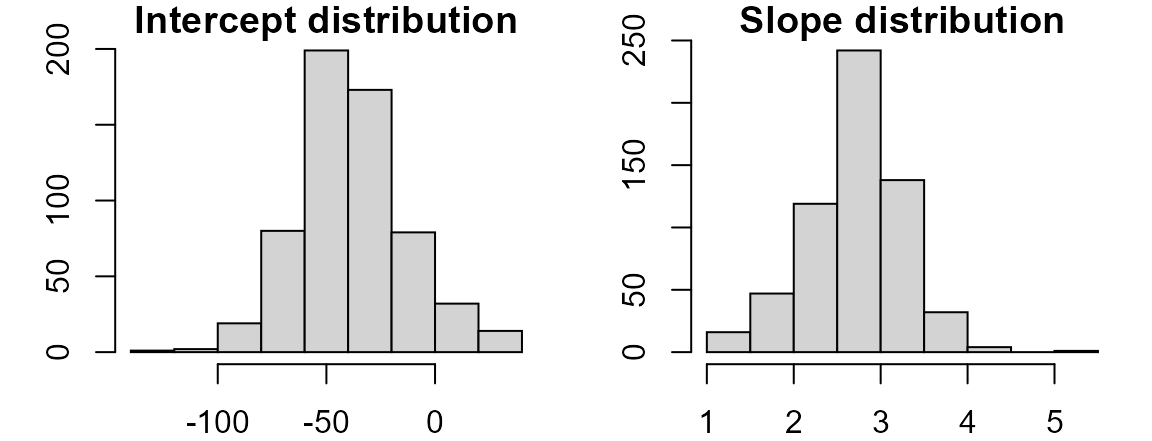
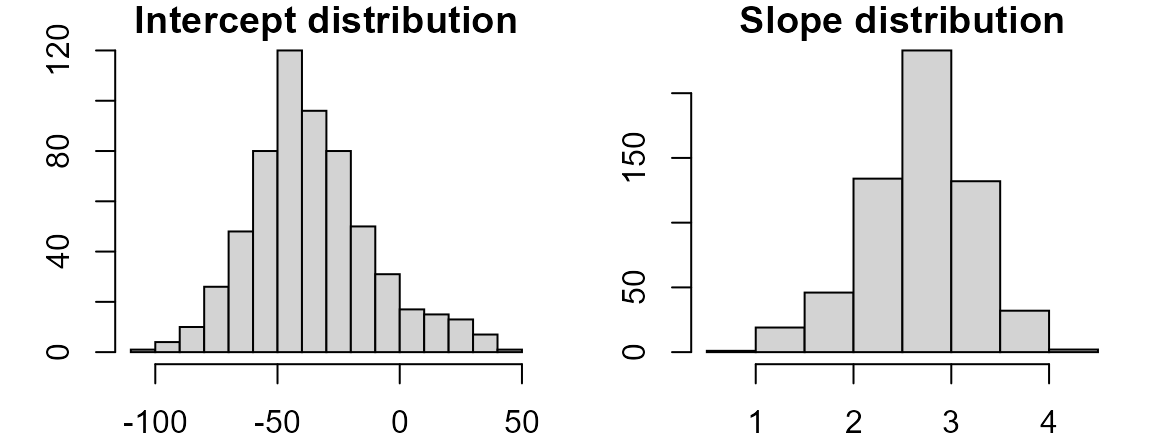
Edited Description

diff --git a/docs/index.html b/docs/index.html
@@ -5,14 +5,14 @@
 <meta charset="utf-8">
 <meta http-equiv="X-UA-Compatible" content="IE=edge">
 <meta name="viewport" content="width=device-width, initial-scale=1.0">
-<title>Tukey inspired exploratory data analysis functions • tukeyedar</title>
+<title>Tukey Inspired Exploratory Data Analysis Functions • tukeyedar</title>
 <!-- jquery --><script src="https://cdnjs.cloudflare.com/ajax/libs/jquery/3.4.1/jquery.min.js" integrity="sha256-CSXorXvZcTkaix6Yvo6HppcZGetbYMGWSFlBw8HfCJo=" crossorigin="anonymous"></script><!-- Bootstrap --><link rel="stylesheet" href="https://cdnjs.cloudflare.com/ajax/libs/twitter-bootstrap/3.4.1/css/bootstrap.min.css" integrity="sha256-bZLfwXAP04zRMK2BjiO8iu9pf4FbLqX6zitd+tIvLhE=" crossorigin="anonymous">
 <script src="https://cdnjs.cloudflare.com/ajax/libs/twitter-bootstrap/3.4.1/js/bootstrap.min.js" integrity="sha256-nuL8/2cJ5NDSSwnKD8VqreErSWHtnEP9E7AySL+1ev4=" crossorigin="anonymous"></script><!-- bootstrap-toc --><link rel="stylesheet" href="bootstrap-toc.css">
 <script src="bootstrap-toc.js"></script><!-- Font Awesome icons --><link rel="stylesheet" href="https://cdnjs.cloudflare.com/ajax/libs/font-awesome/5.12.1/css/all.min.css" integrity="sha256-mmgLkCYLUQbXn0B1SRqzHar6dCnv9oZFPEC1g1cwlkk=" crossorigin="anonymous">
 <link rel="stylesheet" href="https://cdnjs.cloudflare.com/ajax/libs/font-awesome/5.12.1/css/v4-shims.min.css" integrity="sha256-wZjR52fzng1pJHwx4aV2AO3yyTOXrcDW7jBpJtTwVxw=" crossorigin="anonymous">
 <!-- clipboard.js --><script src="https://cdnjs.cloudflare.com/ajax/libs/clipboard.js/2.0.6/clipboard.min.js" integrity="sha256-inc5kl9MA1hkeYUt+EC3BhlIgyp/2jDIyBLS6k3UxPI=" crossorigin="anonymous"></script><!-- headroom.js --><script src="https://cdnjs.cloudflare.com/ajax/libs/headroom/0.11.0/headroom.min.js" integrity="sha256-AsUX4SJE1+yuDu5+mAVzJbuYNPHj/WroHuZ8Ir/CkE0=" crossorigin="anonymous"></script><script src="https://cdnjs.cloudflare.com/ajax/libs/headroom/0.11.0/jQuery.headroom.min.js" integrity="sha256-ZX/yNShbjqsohH1k95liqY9Gd8uOiE1S4vZc+9KQ1K4=" crossorigin="anonymous"></script><!-- pkgdown --><link href="pkgdown.css" rel="stylesheet">
-<script src="pkgdown.js"></script><meta property="og:title" content="Tukey inspired exploratory data analysis functions">
-<meta property="og:description" content="This packages hosts a small set of Tukey inspired functions for use in exploring datasets in a robust manner.">
+<script src="pkgdown.js"></script><meta property="og:title" content="Tukey Inspired Exploratory Data Analysis Functions">
+<meta property="og:description" content="A set of Tukey inspired functions for use in exploring datasets in a robust manner.">
 <!-- mathjax --><script src="https://cdnjs.cloudflare.com/ajax/libs/mathjax/2.7.5/MathJax.js" integrity="sha256-nvJJv9wWKEm88qvoQl9ekL2J+k/RWIsaSScxxlsrv8k=" crossorigin="anonymous"></script><script src="https://cdnjs.cloudflare.com/ajax/libs/mathjax/2.7.5/config/TeX-AMS-MML_HTMLorMML.js" integrity="sha256-84DKXVJXs0/F8OTMzX4UR909+jtl4G7SPypPavF+GfA=" crossorigin="anonymous"></script><!--[if lt IE 9]>
 <script src="https://oss.maxcdn.com/html5shiv/3.7.3/html5shiv.min.js"></script>
 <script src="https://oss.maxcdn.com/respond/1.4.2/respond.min.js"></script>
@@ -181,7 +181,7 @@
 </h2>
 <p>All functions start with <code>eda_</code>. For example, to generate a three point summary plot of the <code>mpg</code> vs. <code>disp</code> from the <code>mtcars</code> dataset, type:</p>
 <div class="sourceCode" id="cb4"><pre class="downlit sourceCode r">
-<code class="sourceCode R"><span class="kw"><a href="https://rdrr.io/r/base/library.html" class="external-link">library</a></span><span class="op">(</span><span class="va"><a href="https://mgimond.github.io/tukeyedar" class="external-link">tukeyedar</a></span><span class="op">)</span>
+<code class="sourceCode R"><span class="kw"><a href="https://rdrr.io/r/base/library.html" class="external-link">library</a></span><span class="op">(</span><span class="va"><a href="https://mgimond.github.io/tukeyedar/" class="external-link">tukeyedar</a></span><span class="op">)</span>
 <span class="fu"><a href="reference/eda_3pt.html">eda_3pt</a></span><span class="op">(</span><span class="va">mtcars</span>, <span class="va">disp</span>, <span class="va">mpg</span><span class="op">)</span></code></pre></div>
 <p><img src="README-unnamed-chunk-5-1.png"><!-- --></p>
 <div class="sourceCode" id="cb5"><pre class="sourceCode R"><code class="sourceCode r"><span id="cb5-1"><a href="#cb5-1" aria-hidden="true" tabindex="-1"></a><span class="co">#&gt; $slope1</span></span>
@@ -228,7 +228,7 @@ Velleman, P. F., and D. C. Hoaglin. 1981. <em>Applications, Basics and Computing
 <h2 data-toc-skip>Links</h2>
 <ul class="list-unstyled">
 <li><a href="https://github.com/mgimond/tukeyedar/" class="external-link">Browse source code</a></li>
-<li><a href="https://github.com/mgimond/tukeyedar/issues" class="external-link">Report a bug</a></li>
+<li><a href="https://github.com/mgimond/tukeyedar/issues/" class="external-link">Report a bug</a></li>
 </ul>
 </div>
 

diff --git a/docs/articles/RLine.html b/docs/articles/RLine.html
@@ -84,7 +84,7 @@
       <h1 data-toc-skip>Resistant Line</h1>
                         <h4 data-toc-skip class="author">Manuel Gimond</h4>
             
-            <h4 data-toc-skip class="date">2021-10-29</h4>
+            <h4 data-toc-skip class="date">2021-10-30</h4>
       
       <small class="dont-index">Source: <a href="https://github.com/mgimond/tukeyedar/blob/HEAD/vignettes/RLine.Rmd" class="external-link"><code>vignettes/RLine.Rmd</code></a></small>
       <div class="hidden name"><code>RLine.Rmd</code></div>
@@ -282,9 +282,9 @@ median(y_{l,m,r} - b * x_{l,m,r})
 <code class="sourceCode R"><span class="va">conf</span> <span class="op">&lt;-</span> <span class="fu"><a href="https://rdrr.io/r/base/t.html" class="external-link">t</a></span><span class="op">(</span><span class="fu"><a href="https://rdrr.io/r/base/data.frame.html" class="external-link">data.frame</a></span><span class="op">(</span>Intercept <span class="op">=</span> <span class="fu"><a href="https://rdrr.io/r/stats/quantile.html" class="external-link">quantile</a></span><span class="op">(</span><span class="va">bt</span><span class="op">[</span>,<span class="fl">1</span><span class="op">]</span>, p<span class="op">=</span><span class="fu"><a href="https://rdrr.io/r/base/c.html" class="external-link">c</a></span><span class="op">(</span><span class="fl">0.05</span>,<span class="fl">0.95</span><span class="op">)</span> <span class="op">)</span>,
                      Slope <span class="op">=</span> <span class="fu"><a href="https://rdrr.io/r/stats/quantile.html" class="external-link">quantile</a></span><span class="op">(</span><span class="va">bt</span><span class="op">[</span>,<span class="fl">2</span><span class="op">]</span>, p<span class="op">=</span><span class="fu"><a href="https://rdrr.io/r/base/c.html" class="external-link">c</a></span><span class="op">(</span><span class="fl">0.05</span>,<span class="fl">0.95</span><span class="op">)</span> <span class="op">)</span><span class="op">)</span><span class="op">)</span>
 <span class="va">conf</span>
-<span class="co">#&gt;                   5%      95%</span>
-<span class="co">#&gt;  Intercept -75.95018 8.749713</span>
-<span class="co">#&gt;  Slope       1.71214 3.540118</span></code></pre></div>
+<span class="co">#&gt;                    5%       95%</span>
+<span class="co">#&gt;  Intercept -74.612601 13.226140</span>
+<span class="co">#&gt;  Slope       1.671648  3.514979</span></code></pre></div>
 </div>
 <div class="section level3">
 <h3 id="resampling-the-x-y-paired-values">Resampling the x-y paired values<a class="anchor" aria-label="anchor" href="#resampling-the-x-y-paired-values"></a>
@@ -309,9 +309,9 @@ median(y_{l,m,r} - b * x_{l,m,r})
 <code class="sourceCode R"><span class="va">conf</span> <span class="op">&lt;-</span> <span class="fu"><a href="https://rdrr.io/r/base/t.html" class="external-link">t</a></span><span class="op">(</span><span class="fu"><a href="https://rdrr.io/r/base/data.frame.html" class="external-link">data.frame</a></span><span class="op">(</span>Intercept <span class="op">=</span> <span class="fu"><a href="https://rdrr.io/r/stats/quantile.html" class="external-link">quantile</a></span><span class="op">(</span><span class="va">bt</span><span class="op">[</span>,<span class="fl">1</span><span class="op">]</span>, p<span class="op">=</span><span class="fu"><a href="https://rdrr.io/r/base/c.html" class="external-link">c</a></span><span class="op">(</span><span class="fl">0.05</span>,<span class="fl">0.95</span><span class="op">)</span> <span class="op">)</span>,
                      Slope <span class="op">=</span> <span class="fu"><a href="https://rdrr.io/r/stats/quantile.html" class="external-link">quantile</a></span><span class="op">(</span><span class="va">bt</span><span class="op">[</span>,<span class="fl">2</span><span class="op">]</span>, p<span class="op">=</span><span class="fu"><a href="https://rdrr.io/r/base/c.html" class="external-link">c</a></span><span class="op">(</span><span class="fl">0.05</span>,<span class="fl">0.95</span><span class="op">)</span> <span class="op">)</span><span class="op">)</span><span class="op">)</span>
 <span class="va">conf</span>
-<span class="co">#&gt;                    5%      95%</span>
-<span class="co">#&gt;  Intercept -114.64456 9.551086</span>
-<span class="co">#&gt;  Slope        1.69817 4.338462</span></code></pre></div>
+<span class="co">#&gt;                     5%       95%</span>
+<span class="co">#&gt;  Intercept -108.353664 12.110826</span>
+<span class="co">#&gt;  Slope        1.643678  4.157895</span></code></pre></div>
 </div>
 </div>
 <div class="section level1">

diff --git a/docs/articles/Introduction.html b/docs/articles/Introduction.html
@@ -84,7 +84,7 @@
       <h1 data-toc-skip>Introduction to EDA functions</h1>
                         <h4 data-toc-skip class="author">Manuel Gimond</h4>
             
-            <h4 data-toc-skip class="date">2021-10-29</h4>
+            <h4 data-toc-skip class="date">2021-10-30</h4>
       
       <small class="dont-index">Source: <a href="https://github.com/mgimond/tukeyedar/blob/HEAD/vignettes/Introduction.Rmd" class="external-link"><code>vignettes/Introduction.Rmd</code></a></small>
       <div class="hidden name"><code>Introduction.Rmd</code></div>
@@ -160,7 +160,7 @@
 </table>
 <p>To access these functions, ensure that <code>tukeyedar</code> is properly loaded:</p>
 <div class="sourceCode" id="cb1"><pre class="downlit sourceCode r">
-<code class="sourceCode R"><span class="kw"><a href="https://rdrr.io/r/base/library.html" class="external-link">library</a></span><span class="op">(</span><span class="va"><a href="https://mgimond.github.io/tukeyedar" class="external-link">tukeyedar</a></span><span class="op">)</span></code></pre></div>
+<code class="sourceCode R"><span class="kw"><a href="https://rdrr.io/r/base/library.html" class="external-link">library</a></span><span class="op">(</span><span class="va"><a href="https://mgimond.github.io/tukeyedar/" class="external-link">tukeyedar</a></span><span class="op">)</span></code></pre></div>
 <p>A brief description and examples of each function is presented next.</p>
 </div>
 <div class="section level2">
